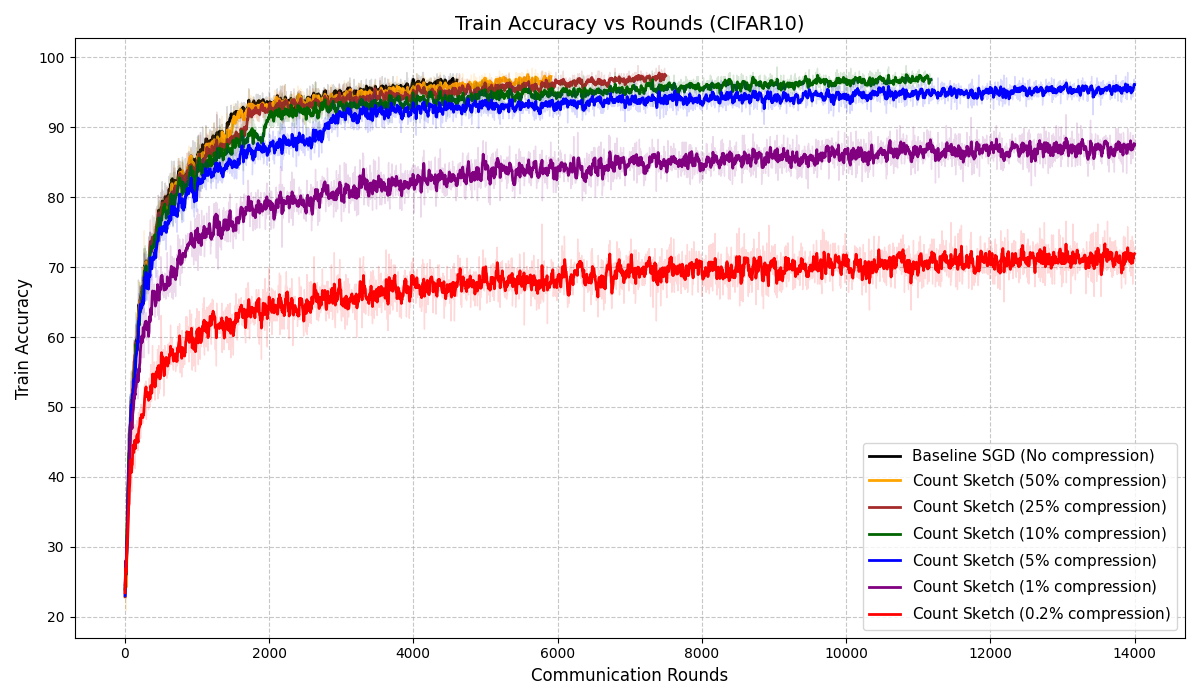
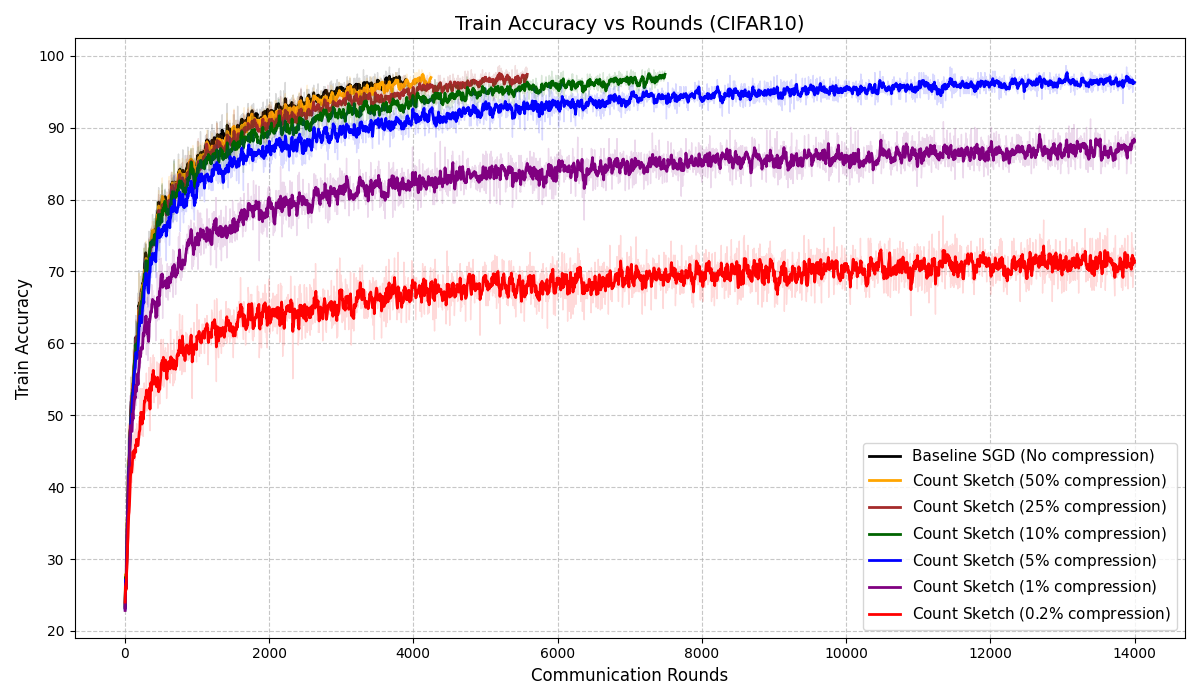
Fix small bug in TTA plotting, include new graphs from CIFAR10 const-LR runs

diff --git a/plots/plot_efficiency_comparison.py b/plots/plot_efficiency_comparison.py
@@ -13,31 +13,31 @@ OUTPUT_PREFIX = f"{DATASET_PREFIX}_efficiency_csh_comparison"
 # Format: (FILE_PATH, LEGEND_LABEL)
 FILES_TO_COMPARE = [
     (
-        "results/ringallreduce/grid_search/gns0.99/results_CIFAR10_ResNet9_none_14000_iid_8_64_0.1_acc_decay_momentum_1_10.pt", 
+        "results/ringallreduce/grid_search/cifar10const/results_CIFAR10_ResNet9_none_14000_iid_8_64_0.075_const_momentum_1_10.pt", 
         "Baseline SGD (No compression)"
     ),
     (
-        "results/ringallreduce/sketched_gns/results_CIFAR10_ResNet9_csh_14000_iid_8_64_0.1_acc_decay_momentum_1_10_r1_c2451621.pt", 
+        "results/ringallreduce/sketched_gns/results_CIFAR10_ResNet9_csh_14000_iid_8_64_0.075_const_momentum_1_10_r1_c2451621.pt", 
         "Count Sketch (50$\%$ compression)"
     ),
     (
-        "results/ringallreduce/sketched_gns/results_CIFAR10_ResNet9_csh_14000_iid_8_64_0.1_acc_decay_momentum_1_10_r1_c1225810.pt", 
+        "results/ringallreduce/sketched_gns/results_CIFAR10_ResNet9_csh_14000_iid_8_64_0.075_const_momentum_1_10_r1_c1225810.pt", 
         "Count Sketch (25$\%$ compression)"
     ),
     (
-        "results/ringallreduce/sketched_gns/results_CIFAR10_ResNet9_csh_14000_iid_8_64_0.1_acc_decay_momentum_1_10_r1_c490324.pt", 
+        "results/ringallreduce/sketched_gns/results_CIFAR10_ResNet9_csh_14000_iid_8_64_0.075_const_momentum_1_10_r1_c490324.pt", 
         "Count Sketch (10$\%$ compression)"
     ),
     (
-        "results/ringallreduce/sketched_gns/results_CIFAR10_ResNet9_csh_14000_iid_8_64_0.1_acc_decay_momentum_1_10_r1_c245162.pt", 
+        "results/ringallreduce/sketched_gns/results_CIFAR10_ResNet9_csh_14000_iid_8_64_0.075_const_momentum_1_10_r1_c245162.pt", 
         "Count Sketch (5$\%$ compression)"
     ),
     (
-        "results/ringallreduce/sketched_gns/results_CIFAR10_ResNet9_csh_14000_iid_8_64_0.1_acc_decay_momentum_1_10_r1_c49032.pt", 
+        "results/ringallreduce/sketched_gns/results_CIFAR10_ResNet9_csh_14000_iid_8_64_0.075_const_momentum_1_10_r1_c49032.pt", 
         "Count Sketch (1$\%$ compression)"
     ),
     (
-        "results/ringallreduce/sketched_gns/results_CIFAR10_ResNet9_csh_14000_iid_8_64_0.1_acc_decay_momentum_1_10_r1_c9806.pt", 
+        "results/ringallreduce/sketched_gns/results_CIFAR10_ResNet9_csh_14000_iid_8_64_0.075_const_momentum_1_10_r1_c9806.pt", 
         "Count Sketch (0.2$\%$ compression)"
     ),
     # (
@@ -64,10 +64,50 @@ FILES_TO_COMPARE = [
     #     "results/ringallreduce/sketched_gns/results_MNIST_ComEffFlPaperCnnModel_csh_4000_iid_8_16_0.05_const_sgd_1_10_r1_c8800.pt", 
     #     "Count Sketch (1$\%$ compression)"
     # ),
-    # # (
-    # #     "results/ringallreduce/sketched_gns/results_MNIST_ComEffFlPaperCnnModel_csh_4000_iid_8_16_0.05_const_sgd_1_10_r1_c2000.pt", 
-    # #     "Count Sketch (0.2$\%$ compression)"
-    # # ),
+    # (
+    #     "results/ringallreduce/sketched_gns/results_MNIST_ComEffFlPaperCnnModel_csh_4000_iid_8_16_0.05_const_sgd_1_10_r1_c2000.pt", 
+    #     "Count Sketch (0.2$\%$ compression)"
+    # ),
+    # (
+    #     "results/ringallreduce/sparsified_gns/results_MNIST_ComEffFlPaperCnnModel_randomk_4000_iid_8_16_0.05_const_sgd_1_10_k438469.pt", 
+    #     "Random-K (50$\%$ compression)"
+    # ),
+    # (
+    #     "results/ringallreduce/sparsified_gns/results_MNIST_ComEffFlPaperCnnModel_randomk_4000_iid_8_16_0.05_const_sgd_1_10_k219234.pt", 
+    #     "Random-K (25$\%$ compression)"
+    # ),
+    # (
+    #     "results/ringallreduce/sparsified_gns/results_MNIST_ComEffFlPaperCnnModel_randomk_4000_iid_8_16_0.05_const_sgd_1_10_k87693.pt", 
+    #     "Random-K (10$\%$ compression)"
+    # ),
+    # (
+    #     "results/ringallreduce/sparsified_gns/results_MNIST_ComEffFlPaperCnnModel_randomk_4000_iid_8_16_0.05_const_sgd_1_10_k43846.pt", 
+    #     "Random-K (5$\%$ compression)"
+    # ),
+    # (
+    #     "results/ringallreduce/sparsified_gns/results_MNIST_ComEffFlPaperCnnModel_randomk_4000_iid_8_16_0.05_const_sgd_1_10_k26308.pt", 
+    #     "Random-K (3$\%$ compression)"
+    # ),
+    #     (
+    #     "results/ringallreduce/sparsified_gns/results_MNIST_ComEffFlPaperCnnModel_randomk_4000_iid_8_16_0.05_const_sgd_1_10_k21923.pt", 
+    #     "Random-K (2.5$\%$ compression)"
+    # ),
+    # (
+    #     "results/ringallreduce/sparsified_gns/results_CIFAR10_ResNet9_randomk_14000_iid_8_64_0.075_const_momentum_1_10_k2451621.pt", 
+    #     "Random-K (50$\%$ compression)"
+    # ),
+    # (
+    #     "results/ringallreduce/sparsified_gns/results_CIFAR10_ResNet9_randomk_14000_iid_8_64_0.075_const_momentum_1_10_k1225810.pt", 
+    #     "Random-K (25$\%$ compression)"
+    # ),
+    # (
+    #     "results/ringallreduce/sparsified_gns/results_CIFAR10_ResNet9_randomk_14000_iid_8_64_0.075_const_momentum_1_10_k490324.pt", 
+    #     "Random-K (10$\%$ compression)"
+    # ),
+    # (
+    #     "results/ringallreduce/sparsified_gns/results_CIFAR10_ResNet9_randomk_14000_iid_8_64_0.075_const_momentum_1_10_k245162.pt", 
+    #     "Random-K (5$\%$ compression)"
+    # )
 ]
 
 def load_data(file_path):
@@ -169,10 +209,7 @@ def run_comparison():
         if 'time' in results:
             t = results['time']
             # Dynamic unit adjustment for readability
-            if len(t) > 0 and t[-1] > 3600:
-                t = [x/3600 for x in t]
-                time_unit = "Hours"
-            elif len(t) > 0 and t[-1] > 60:
+            if len(t) > 0 and t[-1] > 60:
                 t = [x/60 for x in t]
                 time_unit = "Minutes"
             
